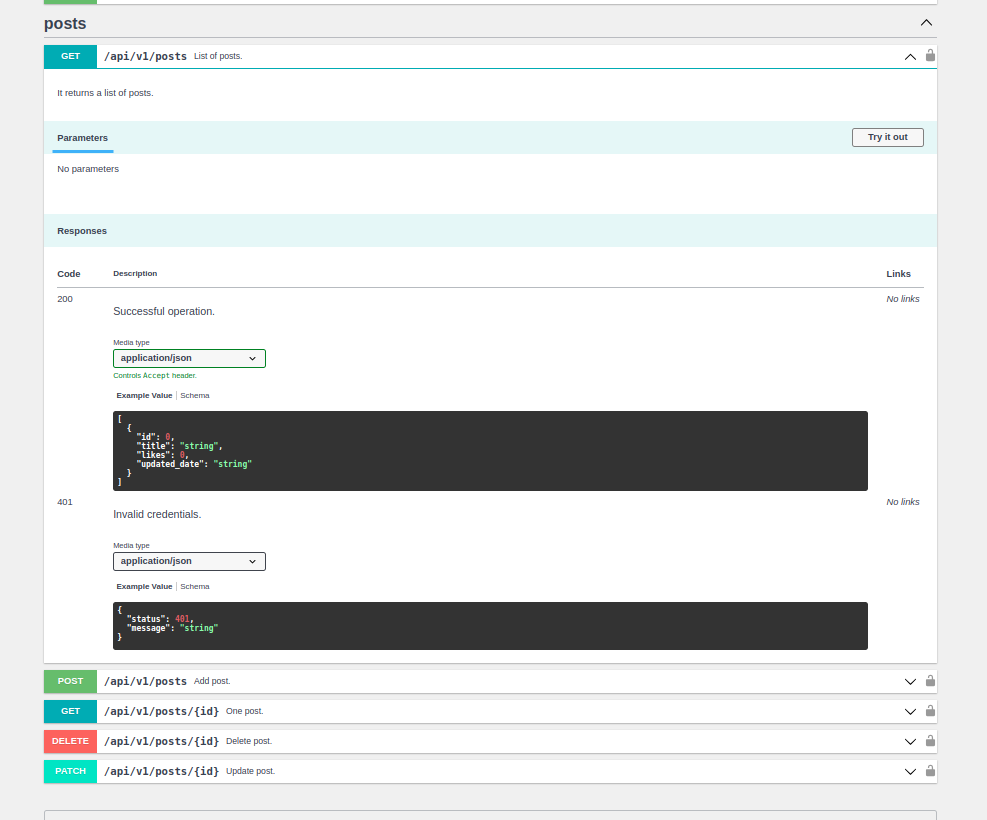
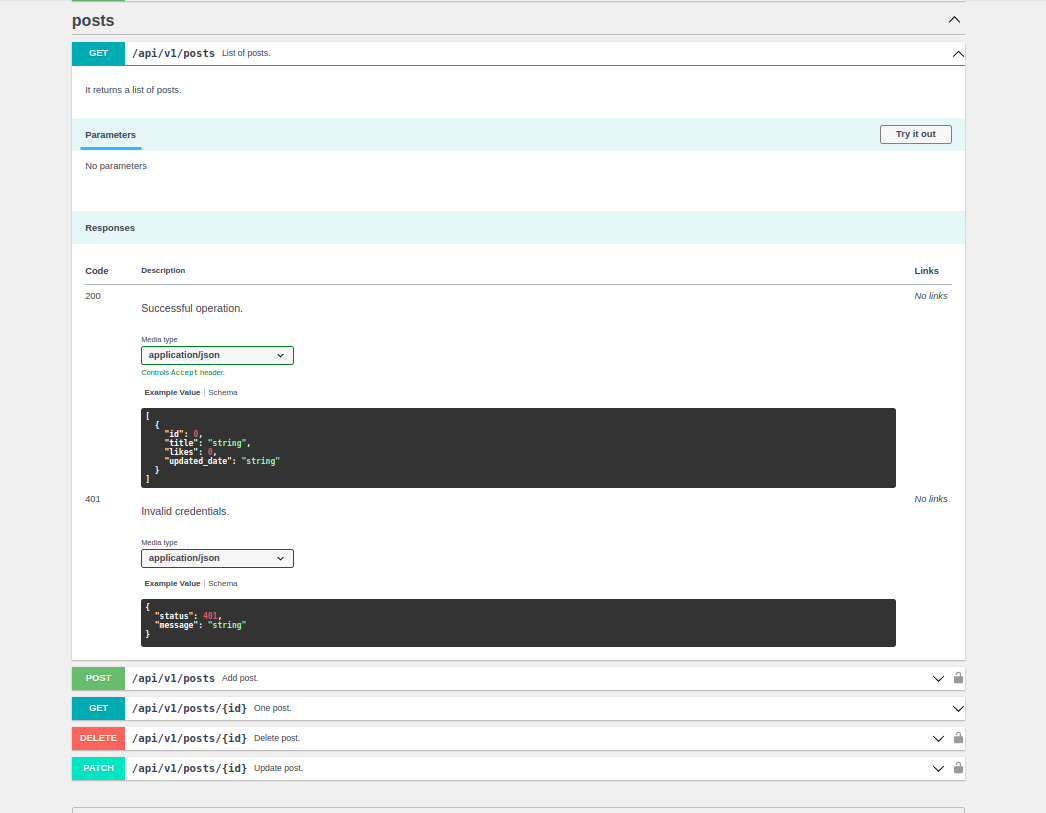
corrections

diff --git a/src/Controller/Api/PostController.php b/src/Controller/Api/PostController.php
@@ -42,7 +42,6 @@ class PostController extends AbstractController
             new OA\Property(property: 'message', type: 'string', example: 'string'),
         ])
     )]
-    #[Security(name: 'Bearer')]
     #[Route('/posts', name: 'posts.list', methods: ['GET'])]
     public function list(PostRepository $postRepo): Response
     {
@@ -80,7 +79,6 @@ class PostController extends AbstractController
             new OA\Property(property: 'message', type: 'string', example: 'string'),
         ])
     )]
-    #[Security(name: 'Bearer')]
     #[Route('/posts/{id}', name: 'posts.one', methods: ['GET'])]
     public function one(int $id, PostRepository $postRepo): Response
     {

diff --git a/README.md b/README.md
@@ -21,6 +21,8 @@
 
 To check the code run this
 
+(Coding Standards Fixer / PHPStan)
+
 ```
 sh code-check.sh
 ```
